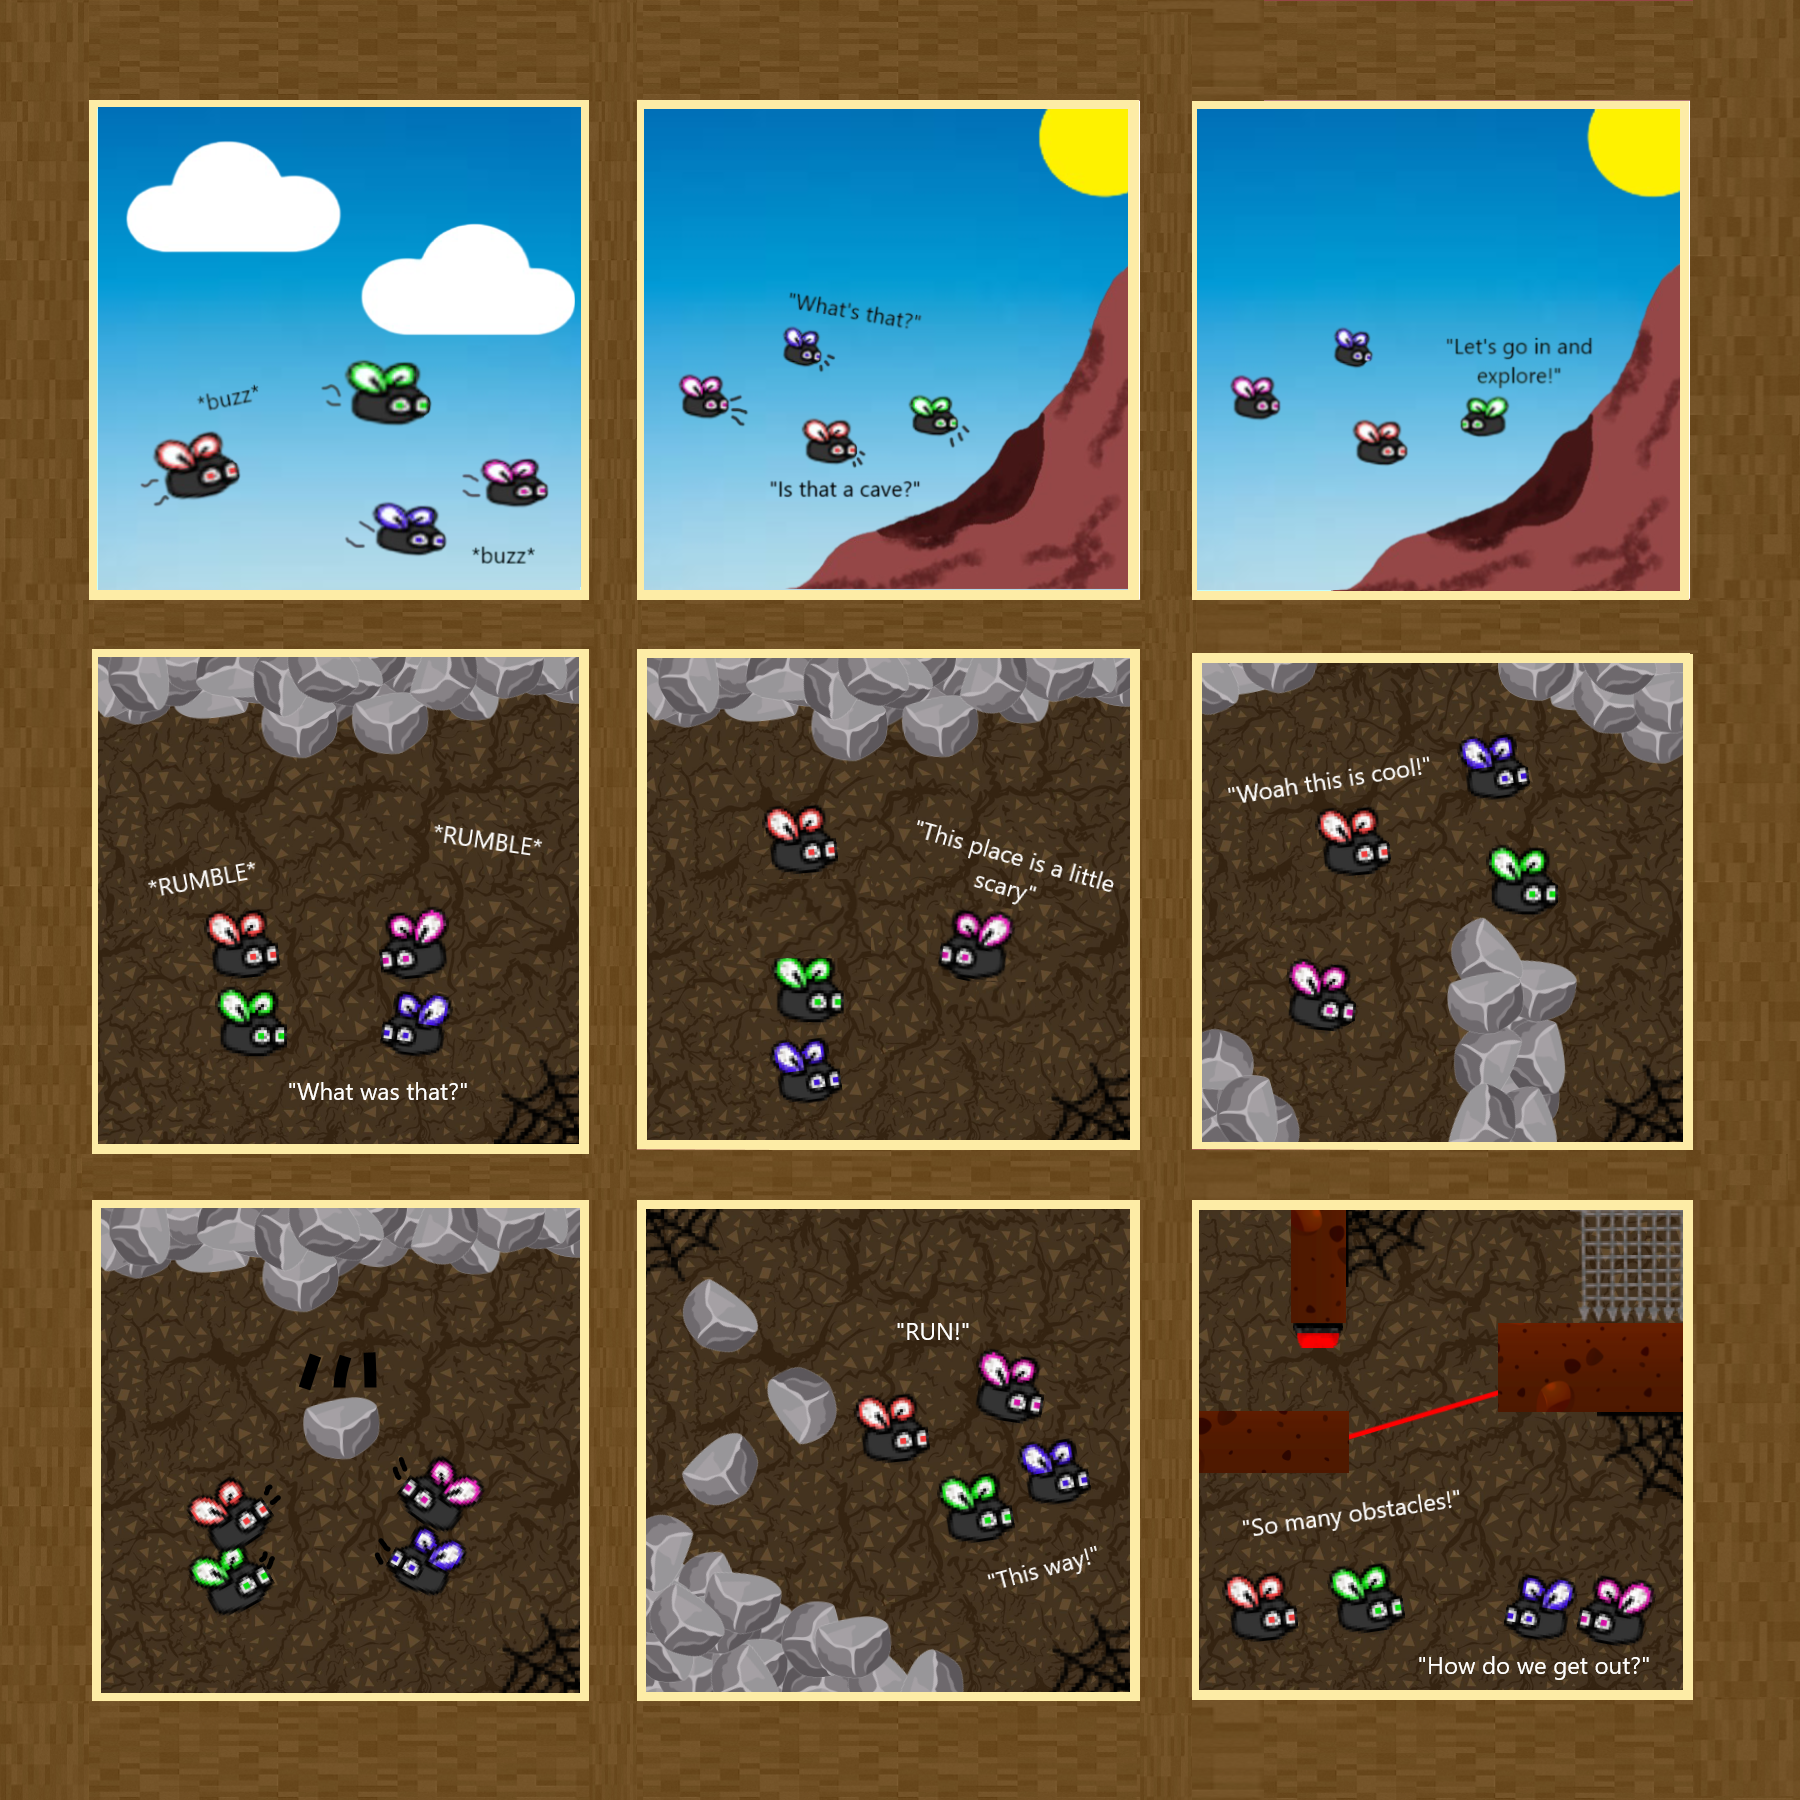
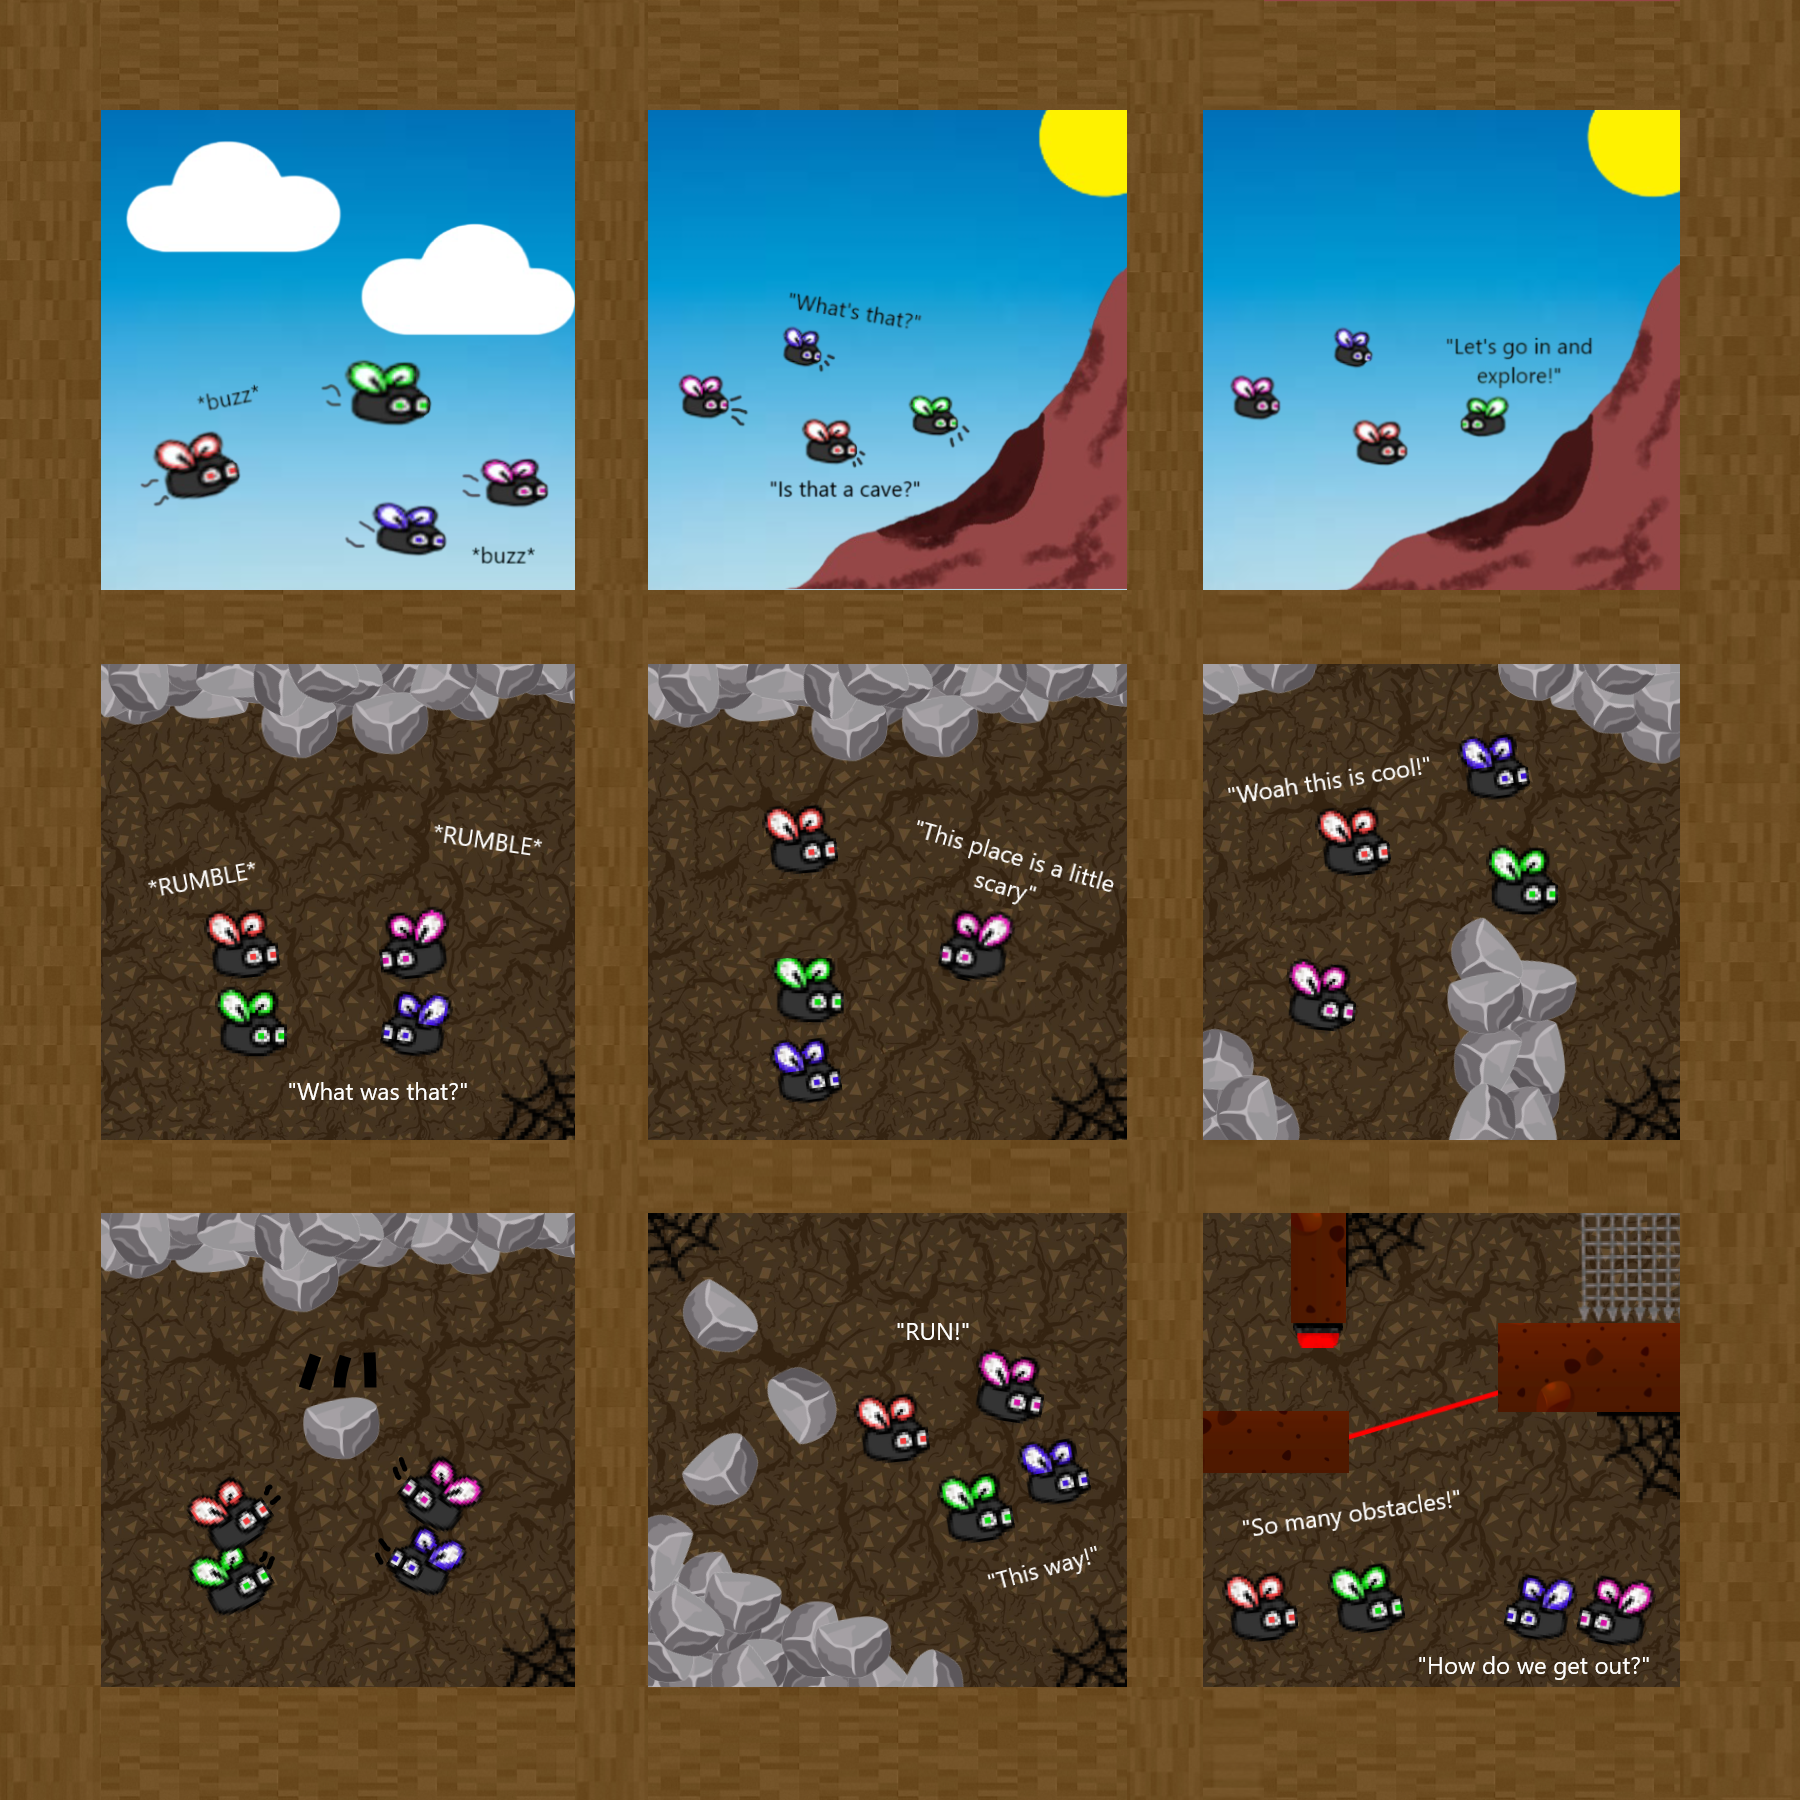
storyboard and gates graphics fix, fly dead in web until save a friend is available

Changed region(s): [[0.0311, 0.0311, 0.9644, 0.9644]]

diff --git a/sprites/flies.py b/sprites/flies.py
@@ -175,9 +175,7 @@ class Flies(pygame.sprite.Sprite):
         collided_web = pygame.sprite.spritecollideany(self, webs)
         if collided_web and (math.dist(collided_web.rect.center, self.rect.center) <= (1/2)*collided_web.size) and pygame.sprite.collide_mask(collided_web, self):
             self.stuck = True
-            key = pygame.key.get_pressed()
-            if not key[pygame.K_SPACE]:
-                self.render_image(self.dead, False)
+            self.render_image(self.dead, False)
         else:
             self.render_image(self.current_image, False)
             
@@ -279,6 +277,8 @@ class Flies(pygame.sprite.Sprite):
         constants.save_text.text = words
         if close_friend and keys[pygame.K_SPACE] and not close_friend.stuck:
             self.stuck = False
+            self.render_image(self.current_image, False)
+
     
     # Move to given coordinates, center is anchor
     def move_to(self, pos):

diff --git a/levels/level.py b/levels/level.py
@@ -207,7 +207,7 @@ async def level(lvl):
     #     h.restart_transition(clock)
     
     # fade out
-    await h.fade_out_animation(clock)
+    # await h.fade_out_animation(clock)
     
     constants.all.remove(bg)
     
